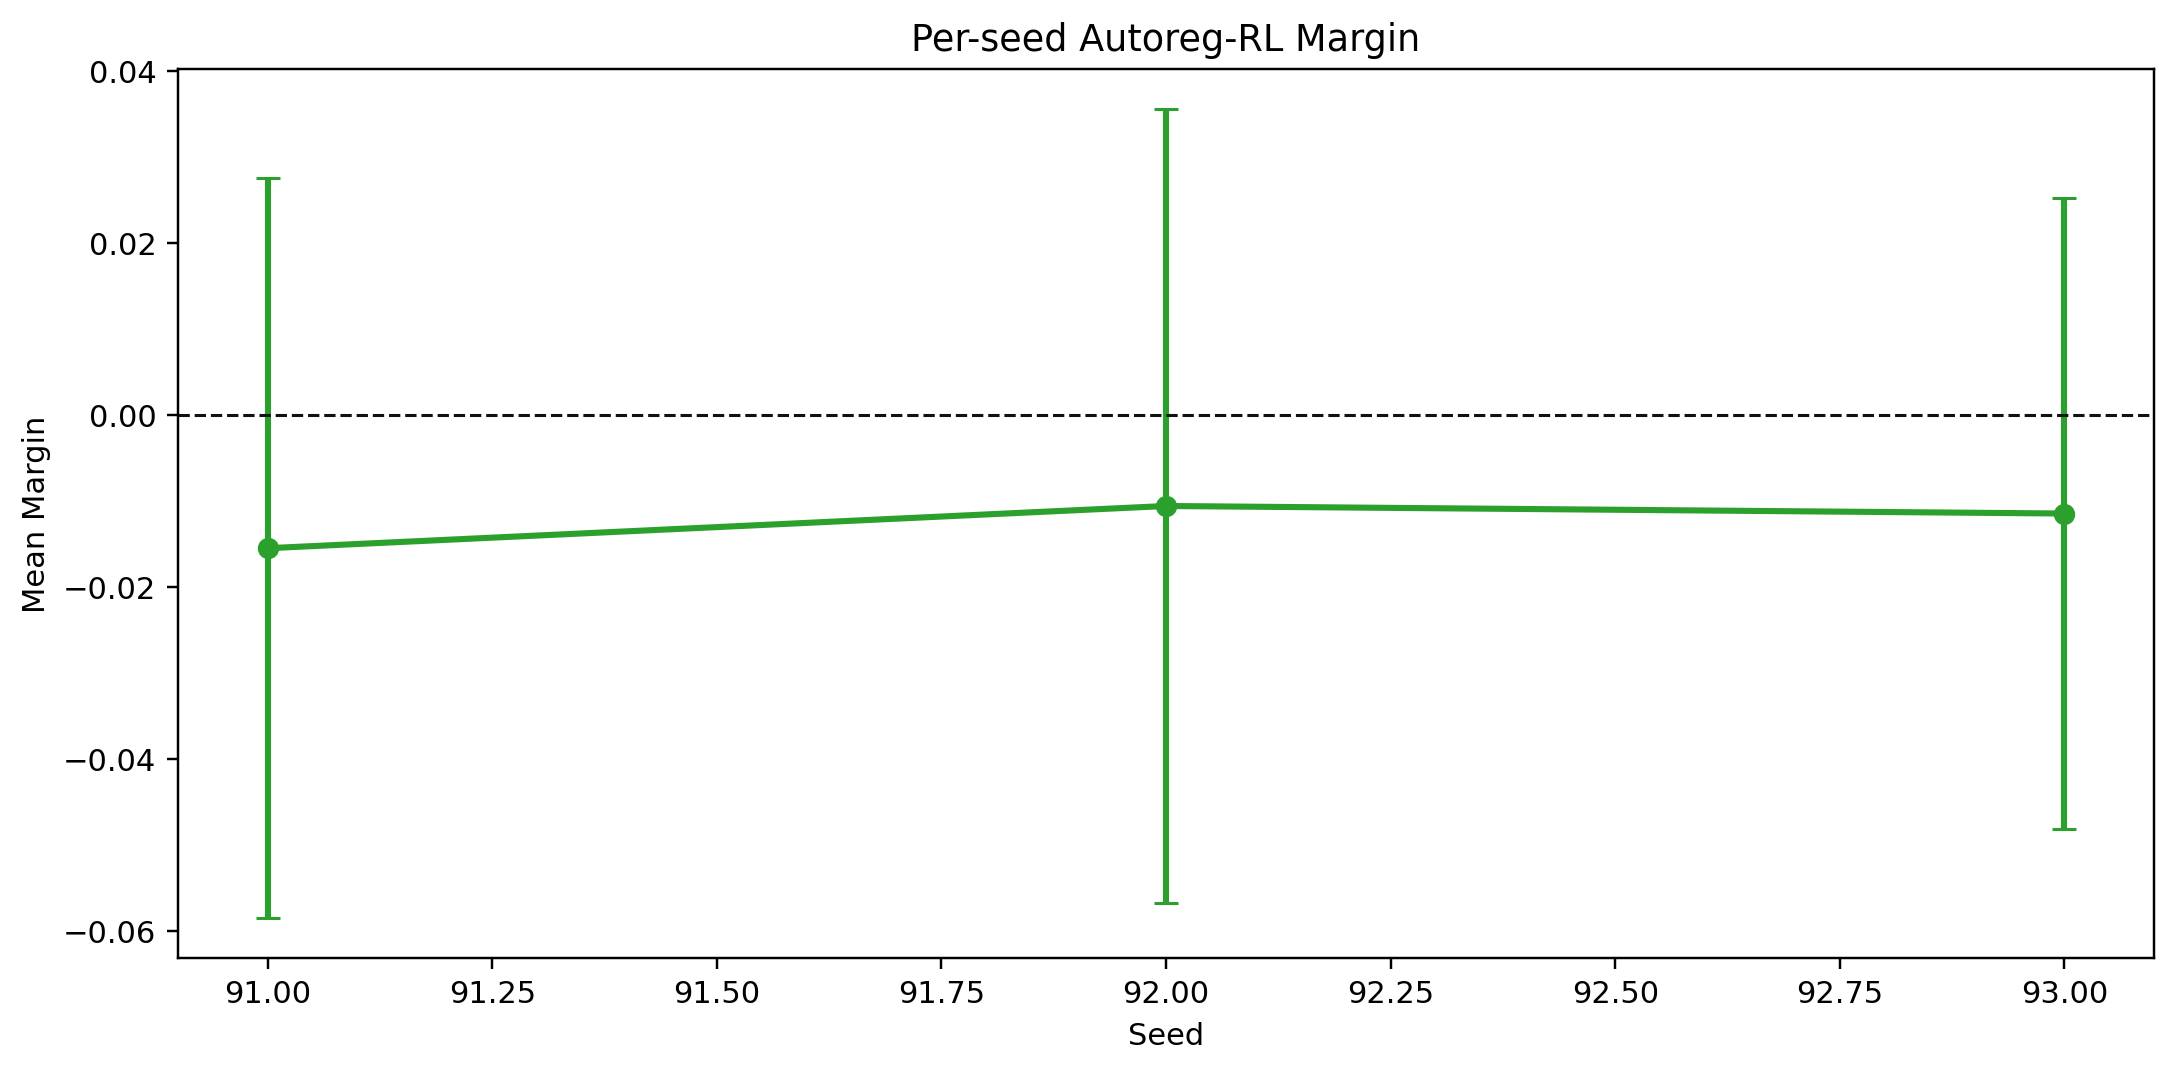
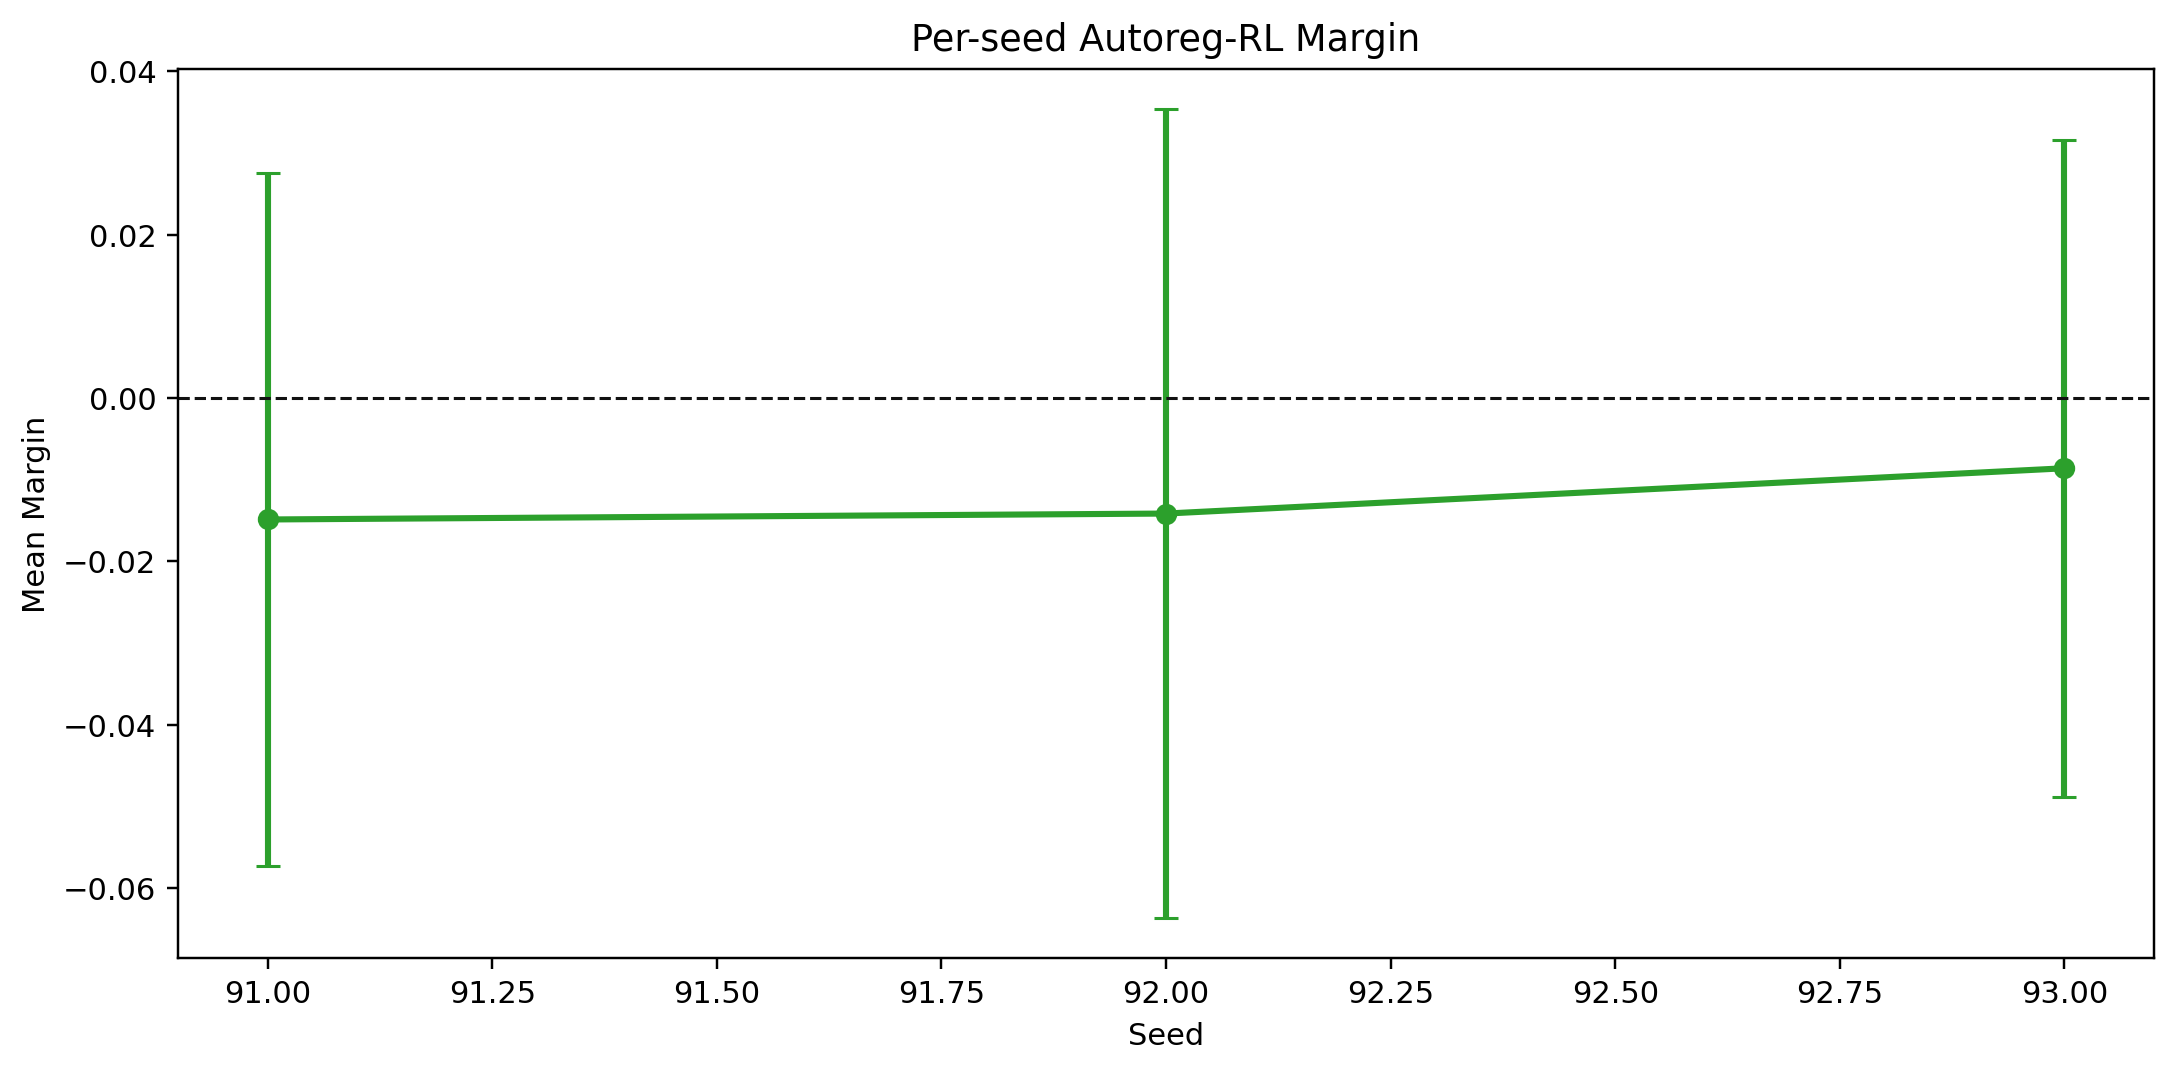
Speed up autoregressive inference

diff --git a/src/autoreg_rl_agent.py b/src/autoreg_rl_agent.py
@@ -190,6 +190,77 @@ class AutoregRLAgent:
         )
 
     @torch.no_grad()
+    def _policy_candidates_fast(
+        self,
+        state_vec_np: np.ndarray,
+        mem_caps_np: np.ndarray,
+        temperatures_np: np.ndarray,
+        greedy_count: int,
+    ) -> np.ndarray:
+        self.policy.eval()
+        n = self.env.num_uavs
+        candidates = int(temperatures_np.shape[0])
+        if candidates <= 0:
+            return np.empty((0, self.env.num_layers), dtype=np.int64)
+
+        states = torch.from_numpy(state_vec_np.astype(np.float32, copy=False)).to(self.device).unsqueeze(0)
+        caps = torch.from_numpy(mem_caps_np.astype(np.float32, copy=False)).to(self.device).unsqueeze(0)
+        temps = torch.from_numpy(temperatures_np.astype(np.float32, copy=False)).to(self.device).clamp_min(1e-6)
+        greedy_mask = torch.zeros(candidates, dtype=torch.bool, device=self.device)
+        if greedy_count > 0:
+            greedy_mask[: min(greedy_count, candidates)] = True
+
+        with torch.inference_mode():
+            state_h = self.policy.encode_state(states).expand(candidates, -1)
+            caps = caps.expand(candidates, -1)
+            mem_used = torch.zeros(candidates, n, device=self.device)
+            prev_onehot = torch.zeros(candidates, n, device=self.device)
+            actions = []
+
+            for layer in range(self.env.num_layers):
+                layer_feat = self.layer_features[layer].unsqueeze(0).expand(candidates, -1)
+                layer_frac = torch.full((candidates, 1), layer / max(self.env.num_layers - 1, 1), device=self.device)
+                remaining_frac = 1.0 - mem_used.sum(dim=-1, keepdim=True)
+                logits = self.policy.step_logits(state_h, layer_feat, prev_onehot, mem_used, layer_frac, remaining_frac)
+
+                layer_mem = float(self.env.profile.mem_bytes[layer] / max(float(np.sum(self.env.profile.mem_bytes)), 1.0))
+                allowed = mem_used + layer_mem <= caps + 1e-8
+                no_allowed = ~torch.any(allowed, dim=-1, keepdim=True)
+                allowed = torch.where(no_allowed, torch.ones_like(allowed), allowed)
+                masked_logits = logits.masked_fill(~allowed, -1.0e9)
+
+                greedy_choice = torch.argmax(masked_logits, dim=-1)
+                scaled_logits = masked_logits / temps[:, None]
+                probs = torch.softmax(scaled_logits, dim=-1)
+                sampled = torch.multinomial(probs, num_samples=1).squeeze(-1)
+                sampled = torch.where(greedy_mask, greedy_choice, sampled)
+
+                actions.append(sampled)
+                prev_onehot = F.one_hot(sampled, num_classes=n).float()
+                mem_used = mem_used + prev_onehot * layer_mem
+
+            actions_t = torch.stack(actions, dim=1)
+            return actions_t.cpu().numpy().astype(np.int64)
+
+    def _eval_temperature_schedule(self, candidates: int, default_temperature: float, greedy_count: int) -> np.ndarray:
+        sample_count = max(0, candidates - greedy_count)
+        temperatures = [1e-6] * min(greedy_count, candidates)
+        if sample_count <= 0:
+            return np.asarray(temperatures, dtype=np.float32)
+
+        temps = self.rl_cfg.get("eval_temperatures", None)
+        if temps:
+            temp_values = [float(x) for x in temps]
+            counts = [sample_count // len(temp_values)] * len(temp_values)
+            for i in range(sample_count % len(temp_values)):
+                counts[i] += 1
+            for temp_value, count in zip(temp_values, counts):
+                temperatures.extend([temp_value] * count)
+        else:
+            temperatures.extend([float(default_temperature)] * sample_count)
+        return np.asarray(temperatures[:candidates], dtype=np.float32)
+
+    @torch.no_grad()
     def policy_candidates(
         self,
         state: SimState,
@@ -200,27 +271,9 @@ class AutoregRLAgent:
         self.policy.eval()
         state_vec = self.env.state_vector(state)
         caps = self.mem_caps_norm(state)
-        sample_count = max(0, candidates - greedy_count)
-        actions = []
-        for temp in [1e-4] * greedy_count:
-            batch = self.sample_batch(state_vec[None, :], caps[None, :], candidates=1, temperature=temp)
-            actions.append(batch.actions[0, 0])
-        if sample_count > 0:
-            temps = self.rl_cfg.get("eval_temperatures", None)
-            if temps:
-                temp_values = [float(x) for x in temps]
-                counts = [sample_count // len(temp_values)] * len(temp_values)
-                for i in range(sample_count % len(temp_values)):
-                    counts[i] += 1
-                for temp_value, count in zip(temp_values, counts):
-                    if count <= 0:
-                        continue
-                    batch = self.sample_batch(state_vec[None, :], caps[None, :], candidates=count, temperature=temp_value)
-                    actions.extend([batch.actions[0, i] for i in range(count)])
-            else:
-                batch = self.sample_batch(state_vec[None, :], caps[None, :], candidates=sample_count, temperature=temperature)
-                actions.extend([batch.actions[0, i] for i in range(sample_count)])
-        repaired = np.stack([self.env.project_action(action, state, max_passes=2) for action in actions[:candidates]])
+        temperatures = self._eval_temperature_schedule(candidates, temperature, greedy_count)
+        actions = self._policy_candidates_fast(state_vec, caps, temperatures, greedy_count=greedy_count)
+        repaired = np.stack([self.env.project_action(action, state, max_passes=2) for action in actions])
         return repaired
 
     def select_policy_candidate(self, state: SimState, candidates: int, temperature: float = 0.5) -> AutoregPolicyEval:

diff --git a/results/autoreg_rl_strong_benchmark_report.md b/results/autoreg_rl_strong_benchmark_report.md
@@ -20,19 +20,19 @@ Training note: this checkpoint uses teacher warm-start from strong heuristic sol
 
 | method | reward | feasible | latency | PPL | runtime_s |
 |---|---:|---:|---:|---:|---:|
-| hybrid_heuristic | -0.199647 +/- 0.069228 | 1.0000 | 1.9431 | 31.2361 | 0.01137 |
-| beam_search | -0.201854 +/- 0.072310 | 1.0000 | 1.9615 | 31.2646 | 0.01137 |
-| autoreg_rl_pure | -0.212179 +/- 0.079568 | 1.0000 | 2.0456 | 31.4119 | 0.22807 |
-| simulated_annealing | -0.267850 +/- 0.134952 | 1.0000 | 2.4852 | 32.3142 | 0.01137 |
-| local_search | -0.269031 +/- 0.136775 | 1.0000 | 2.4911 | 32.3601 | 0.01137 |
-| pdp_aware_greedy | -0.286648 +/- 0.154524 | 1.0000 | 2.6246 | 32.6885 | 0.01137 |
-| latency_greedy | -8.859663 +/- 27.554457 | 0.9167 | 10.4054 | 41.0712 | 0.01137 |
-| block_balanced | -16.508051 +/- 36.025838 | 0.8438 | 18.0614 | 47.5062 | 0.01137 |
-| random | -100.000000 +/- 0.000000 | 0.0000 | 107.6689 | 100.4916 | 0.01137 |
+| hybrid_heuristic | -0.199647 +/- 0.069228 | 1.0000 | 1.9431 | 31.2361 | 0.01075 |
+| beam_search | -0.201854 +/- 0.072310 | 1.0000 | 1.9615 | 31.2646 | 0.01075 |
+| autoreg_rl_pure | -0.212208 +/- 0.076782 | 1.0000 | 2.0500 | 31.3805 | 0.02837 |
+| simulated_annealing | -0.267850 +/- 0.134952 | 1.0000 | 2.4852 | 32.3142 | 0.01075 |
+| local_search | -0.269031 +/- 0.136775 | 1.0000 | 2.4911 | 32.3601 | 0.01075 |
+| pdp_aware_greedy | -0.286648 +/- 0.154524 | 1.0000 | 2.6246 | 32.6885 | 0.01075 |
+| latency_greedy | -8.859663 +/- 27.554457 | 0.9167 | 10.4054 | 41.0712 | 0.01075 |
+| block_balanced | -16.508051 +/- 36.025838 | 0.8438 | 18.0614 | 47.5062 | 0.01075 |
+| random | -100.000000 +/- 0.000000 | 0.0000 | 107.6689 | 100.4916 | 0.01075 |
 
 ## Result
 
-- `autoreg_rl_pure` margin vs best non-RL heuristic: `-0.01253196` mean, `-0.24414838` min.
+- `autoreg_rl_pure` margin vs best non-RL heuristic: `-0.01256090` mean, `-0.24414838` min.
 - `autoreg_rl_pure` win/tie rate vs best non-RL heuristic: `0.3906`.
 - Under this benchmark, autoregressive pure RL does not exceed the strongest heuristic on mean reward.
 - `dros_hybrid` remains an upper-reference hybrid method and should not be called pure RL.

diff --git a/README.md b/README.md
@@ -21,17 +21,17 @@ Hard-infeasible deployments receive `reward = -100.0`. The calibrated config use
 
 | method | reward | feasible | latency | PPL | runtime/state |
 |---|---:|---:|---:|---:|---:|
-| hybrid_heuristic | -0.199647 +/- 0.069228 | 1.0000 | 1.9431 | 31.2361 | 0.01137s |
-| beam_search | -0.201854 +/- 0.072310 | 1.0000 | 1.9615 | 31.2646 | 0.01137s |
-| autoreg_rl_pure | -0.212179 +/- 0.079568 | 1.0000 | 2.0456 | 31.4119 | 0.22807s |
-| simulated_annealing | -0.267850 +/- 0.134952 | 1.0000 | 2.4852 | 32.3142 | 0.01137s |
-| local_search | -0.269031 +/- 0.136775 | 1.0000 | 2.4911 | 32.3601 | 0.01137s |
-| pdp_aware_greedy | -0.286648 +/- 0.154524 | 1.0000 | 2.6246 | 32.6885 | 0.01137s |
-| latency_greedy | -8.859663 +/- 27.554457 | 0.9167 | 10.4054 | 41.0712 | 0.01137s |
-| block_balanced | -16.508051 +/- 36.025838 | 0.8438 | 18.0614 | 47.5062 | 0.01137s |
-| random | -100.000000 +/- 0.000000 | 0.0000 | 107.6689 | 100.4916 | 0.01137s |
+| hybrid_heuristic | -0.199647 +/- 0.069228 | 1.0000 | 1.9431 | 31.2361 | 0.01075s |
+| beam_search | -0.201854 +/- 0.072310 | 1.0000 | 1.9615 | 31.2646 | 0.01075s |
+| autoreg_rl_pure | -0.212208 +/- 0.076782 | 1.0000 | 2.0500 | 31.3805 | 0.02837s |
+| simulated_annealing | -0.267850 +/- 0.134952 | 1.0000 | 2.4852 | 32.3142 | 0.01075s |
+| local_search | -0.269031 +/- 0.136775 | 1.0000 | 2.4911 | 32.3601 | 0.01075s |
+| pdp_aware_greedy | -0.286648 +/- 0.154524 | 1.0000 | 2.6246 | 32.6885 | 0.01075s |
+| latency_greedy | -8.859663 +/- 27.554457 | 0.9167 | 10.4054 | 41.0712 | 0.01075s |
+| block_balanced | -16.508051 +/- 36.025838 | 0.8438 | 18.0614 | 47.5062 | 0.01075s |
+| random | -100.000000 +/- 0.000000 | 0.0000 | 107.6689 | 100.4916 | 0.01075s |
 
-Mean margin of `autoreg_rl_pure` vs the best non-RL heuristic: `-0.01253196`. Win/tie rate: `0.3906`.
+Mean margin of `autoreg_rl_pure` vs the best non-RL heuristic: `-0.01256090`. Win/tie rate: `0.3906`.
 
 With `k=64`, the learned policy remains feasible but no longer beats the strongest heuristic on mean reward.
 

diff --git a/results/benchmark_autoreg_gpu_k64/benchmark_report.md b/results/benchmark_autoreg_gpu_k64/benchmark_report.md
@@ -4,14 +4,14 @@ States: `192`
 
 | method | reward | feasible | latency | PPL | runtime_s |
 |---|---:|---:|---:|---:|---:|
-| hybrid_heuristic | -0.199647 +/- 0.069228 | 1.0000 | 1.9431 | 31.2361 | 0.01137 |
-| beam_search | -0.201854 +/- 0.072310 | 1.0000 | 1.9615 | 31.2646 | 0.01137 |
-| autoreg_rl_pure | -0.212179 +/- 0.079568 | 1.0000 | 2.0456 | 31.4119 | 0.22807 |
-| simulated_annealing | -0.267850 +/- 0.134952 | 1.0000 | 2.4852 | 32.3142 | 0.01137 |
-| local_search | -0.269031 +/- 0.136775 | 1.0000 | 2.4911 | 32.3601 | 0.01137 |
-| pdp_aware_greedy | -0.286648 +/- 0.154524 | 1.0000 | 2.6246 | 32.6885 | 0.01137 |
-| latency_greedy | -8.859663 +/- 27.554457 | 0.9167 | 10.4054 | 41.0712 | 0.01137 |
-| block_balanced | -16.508051 +/- 36.025838 | 0.8438 | 18.0614 | 47.5062 | 0.01137 |
-| random | -100.000000 +/- 0.000000 | 0.0000 | 107.6689 | 100.4916 | 0.01137 |
+| hybrid_heuristic | -0.199647 +/- 0.069228 | 1.0000 | 1.9431 | 31.2361 | 0.01075 |
+| beam_search | -0.201854 +/- 0.072310 | 1.0000 | 1.9615 | 31.2646 | 0.01075 |
+| autoreg_rl_pure | -0.212208 +/- 0.076782 | 1.0000 | 2.0500 | 31.3805 | 0.02837 |
+| simulated_annealing | -0.267850 +/- 0.134952 | 1.0000 | 2.4852 | 32.3142 | 0.01075 |
+| local_search | -0.269031 +/- 0.136775 | 1.0000 | 2.4911 | 32.3601 | 0.01075 |
+| pdp_aware_greedy | -0.286648 +/- 0.154524 | 1.0000 | 2.6246 | 32.6885 | 0.01075 |
+| latency_greedy | -8.859663 +/- 27.554457 | 0.9167 | 10.4054 | 41.0712 | 0.01075 |
+| block_balanced | -16.508051 +/- 36.025838 | 0.8438 | 18.0614 | 47.5062 | 0.01075 |
+| random | -100.000000 +/- 0.000000 | 0.0000 | 107.6689 | 100.4916 | 0.01075 |
 
-Autoreg-RL-pure margin vs best heuristic: mean `-0.01253196`, min `-0.24414838`, win/tie rate `0.3906`.
+Autoreg-RL-pure margin vs best heuristic: mean `-0.01256090`, min `-0.24414838`, win/tie rate `0.3906`.

diff --git a/results/visuals_autoreg/visual_summary.md b/results/visuals_autoreg/visual_summary.md
@@ -2,7 +2,7 @@
 
 - Train dir: `results/autoreg_rl_teacher`
 - Benchmark dir: `results/benchmark_autoreg_gpu_k64`
-- Autoreg-RL margin mean: `-0.01253196`
+- Autoreg-RL margin mean: `-0.01256090`
 - Autoreg-RL win/tie rate: `0.3906`
 
 ## Generated Files
